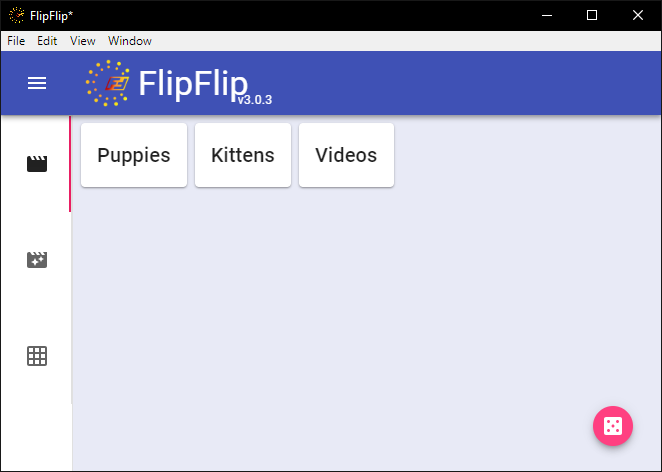
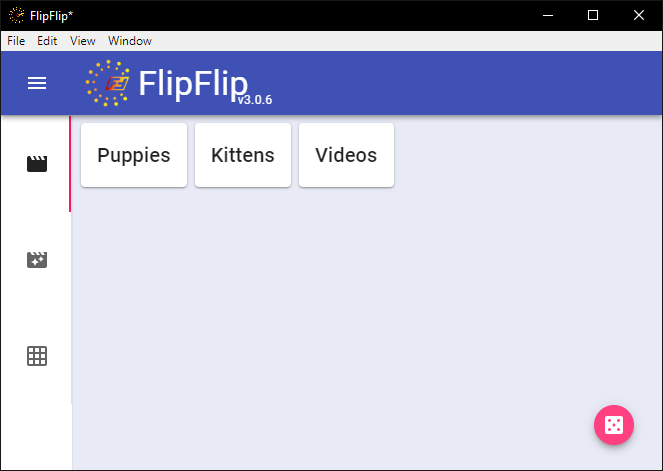
Prep for v3.0.6

diff --git a/docs/effects.md b/docs/effects.md
@@ -1,5 +1,6 @@
 # Effects
-The **EFFECTS** tab controls the various image effects: **Zoom/Move**, **Cross Fade**, and **Strobe**.
+The **EFFECTS** tab controls the various image effects: **Zoom/Move**, **Cross Fade**, **Strobe**, **Fade In/Out**, 
+and **Panning**.
 
 ![](doc_images/scene_detail_effects.png)
 
@@ -13,7 +14,7 @@ FlipFlip effects all share the same types of timings (in ms):
 * **With Scene**: Occurs when the image changes
 
 ## Zoom/Move
-This section controls image movement.
+This section controls image movement. This effect restarts when the displayed image changes.
 * Choose zoom on/off. Control start/end scale and randomization.
 * Choose move horizontally left/right/either (or none). Control distance (%) and randomization.
 * Choose move vertically up/down/either (or none). Control distance (%) and randomization.
@@ -22,7 +23,7 @@ This section controls image movement.
 <img src="doc_images/zoom_ex.gif" alt="Zoom Example">
 
 ## Crossfade
-This section controls fade effects.
+This section controls fade effects.  This effect restarts when the displayed image changes.
 * Choose whether to cross-fade images/video.
 * Choose whether to cross-fade audio when cross-fading video.
 * Control cross fade timing options.
@@ -30,11 +31,34 @@ This section controls fade effects.
 <img src="doc_images/fade_ex.gif" alt="Fade Example">
 
 ## Strobe
-This section controls the strobe effect.
+This section controls the strobe effect.  This effect restarts when the displayed image changes.
 * Choose strobe on/off. Control strobe time (ms).
 * Choose delay on/off. Control delay time (ms).
 * Control color(s). Choose single color, set of colors, or random colors.
 * Control strobe layer. If at "Behind All", control opacity.
-* Control strobe/delay timing options.
 
 <img src="doc_images/strobe_ex.gif" alt="Strobe Example">
+
+## Fade In/Out BETA
+This section controls the fade in/out effect. This effect is continuous and will continue even if the displayed image 
+changes.
+* Choose fade in/out on/off. Control fade in/out time (ms).
+  * This time represents a full fade in/out (half fade in, half fade out)
+
+<img src="doc_images/fadeio_ex.gif" alt="Fade In/Out Example">
+
+?> This is a BETA effect and may produce unexpected results when used with more complex timing functions or in 
+combination with other effects.
+
+## Panning BETA
+This section controls the panning effect. This effect is continuous and will continue even if the displayed image 
+changes.
+* Choose panning on/off.
+* Choose panning horizontally from left/right/either (or none). Control distance (%) and randomization.
+* Choose panning vertically from up/down/either (or none). Control distance (%) and randomization.
+* Control panning timing options.
+
+<img src="doc_images/panning_ex.gif" alt="Panning Example">
+
+?> This is a BETA effect and may produce unexpected results when used with more complex timing functions or in 
+combination with other effects.

diff --git a/docs/scene_generators.md b/docs/scene_generators.md
@@ -1,7 +1,7 @@
 # Scene Generators
-**Scene Generators** are a special kind of Scene that uses tag rules to generate a random list of sources from the Library.
+**Scene Generators** are a special kind of Scene that uses tag/type rules to generate a random list of sources from the Library.
 
-Once you have at least 1 source and 1 tag in the Library, you can add a `Scene Generator` from the Scene Picker (Home). 
+Once you have at least 1 source in the Library, you can add a `Scene Generator` from the Scene Picker (Home). 
 Scene Generators appear in their own tab in the Scene Picker.
 
 ![](doc_images/scene_detail_generator.png)
@@ -14,17 +14,17 @@ To get started, click the `+` and select a Tag to create a **Simple Rule**.
 A simple rule can function in 1 of 3 ways:
 #### Percent
 This will be the most commonly used option. The percent value (modified with the slider) denotes what percentage of the 
-total should have the specified tag.
+total should have the specified tag/type.
 
 #### Require
-This rule means that all sources _must have_ the specified tag.
+This rule means that all sources _must have_ the specified tag/type.
 
 #### Exclude
-This rule means that all sources _must **not** have_ the specified tag.
+This rule means that all sources _must **not** have_ the specified tag/type.
 
 ### Adv Rule
 An advanced rule is just a combination of simple rules, which can also be given a **percent**, **require**, or **exclude**.
-e.g. You could make a advanced rule made up of 2 simple rules: **require** <Tag1> and **require** <Tag2>. You could then
+e.g. You could make an advanced rule made up of 2 simple rules: **require** <Tag1> and **require** <Tag2>. You could then
 give this advanced rule a percent of 50. 50% of your generated sources will now have both of these tags!
 
 ## Generate Scene
@@ -36,7 +36,7 @@ alt="Generate" width="20" height="20"> ). This will use the rules you set up to 
 for your Scene. The default max number of sources is 200, but you can lower or raise this to meet your needs.
 
 After generating a scene, you will see a number (`X/Y`) next to each Percent rule. This tells you how many sources 
-were chosen during generation from the total that fit your rules. This can help in finding a optimal MAX number for your
+were chosen during generation from the total that fit your rules. This can help in finding an optimal MAX number for your
 specific rules.
 
 Any changes to Effects here will be persisted between generated Scenes (using this Generator). The only thing that 

diff --git a/docs/changelog.md b/docs/changelog.md
@@ -1,5 +1,35 @@
 # Changelog
 
+## 3.0.6 <small>(09/16/2020)</small>
+- New Effect: Continuous Fade In/Out (BETA)
+- New Effect: Continuous Panning (BETA)
+- Add option for Center (No Clipping)
+- Add additional tooltips to UI
+- Use searchable select throughout app when selecting Tags/Scenes
+- Add option to localize offline library content
+- Add option to delete source from file system
+- Improve Picture Grid
+- Improve Scene Generator
+- Allow scene generators to match on source type
+- Allow next button to be clicked to force next source
+- Allow "/" in $RANDOM_PHRASE to correctly blink
+- Increase granularity of BPM multiplier (x0.1-x10.0)
+- Add context option for "Goto Clip Source"
+- Fix bug with "Goto Tag Source"
+- Fix bug with batch tagging only showing used tags
+- Fix bug with full video playback at non-standard speed
+- Fix bug with default weighting in config
+- Fix bug with video timeline not displaying clip
+- Fix bug with inner directories
+- Fix bug with missing video
+- Fix bug with source ordering
+- Fix bug with continue video
+- Fix bug with strobe timing
+- Fix bug with playback speed
+- Fix bug with disabled clips
+- Fix redgif/gfycat parsing
+- Revert Electron to latest working version
+
 ## 3.0.5 <small>(07/20/2020)</small>
 - Add filter for only image files
 - Add separate ordering for sources vs images

diff --git a/docs/playing_scene.md b/docs/playing_scene.md
@@ -30,7 +30,9 @@ While a Scene is playing, you can right click on an image to get more informatio
 * If this image is a local file, you are given options to view it in Explorer/Finder or delete it from the system. 
   * _Handy for pruning images you don't want in FlipFlip._ 
 * If this image is a remote file and you have enabled caching, a link to the caching directory is also provided.
-* If this source is in your Library, "GoTo Tag Source" will bring you to Tagging for that source. 
+* If this source is in your Library, "Goto Tag Source" will bring you to Tagging for that source. 
+  * _When you click "Back" you will be brought back to the scene that was playing._
+* If this  is a video source, "Goto Clip Source" will bring you to Video Clipper for that source. 
   * _When you click "Back" you will be brought back to the scene that was playing._
 * Select "Recent Picture Grid" to view a grid of recently played files. 
   * _This will auto-pause playback. Press the back arrow to return to normal playback._

diff --git a/docs/library.md b/docs/library.md
@@ -57,3 +57,15 @@ width="20" height="20"> ) to check your sources. When this process completes, un
 an offline icon.
 
 ![](doc_images/library_offline.png)
+
+### Localize Offline Content
+When a source goes offline, you may want to retain the cached images in their own source. After marking sources offline, 
+press **Alt+L**. After confirming your action, your offline sources will be moved to a local directory and the source 
+URL updated. Any offline sources without cached images will simply be removed.
+
+## Delete Source Content
+Sometimes, you may want to be able to totally delete a source from your file system. To do this, **Shift+Ctrl+Alt+Click**
+the source's avatar icon. You will be prompted to confirm this choice, after which the source in FlipFlip and the file(s)
+on your system will be deleted.
+
+?> **Note**: This can only be done for local sources (directories or videos)

diff --git a/docs/options.md b/docs/options.md
@@ -26,6 +26,7 @@ This setting controls the aspect ratio and size of the displayed image:
 * **Fit Best (Clip Edges)**
 * **Stretch**
 * **Center**
+* **Center (No Clipping)**
 * **Fit Width**
 * **Fit Height**
 
